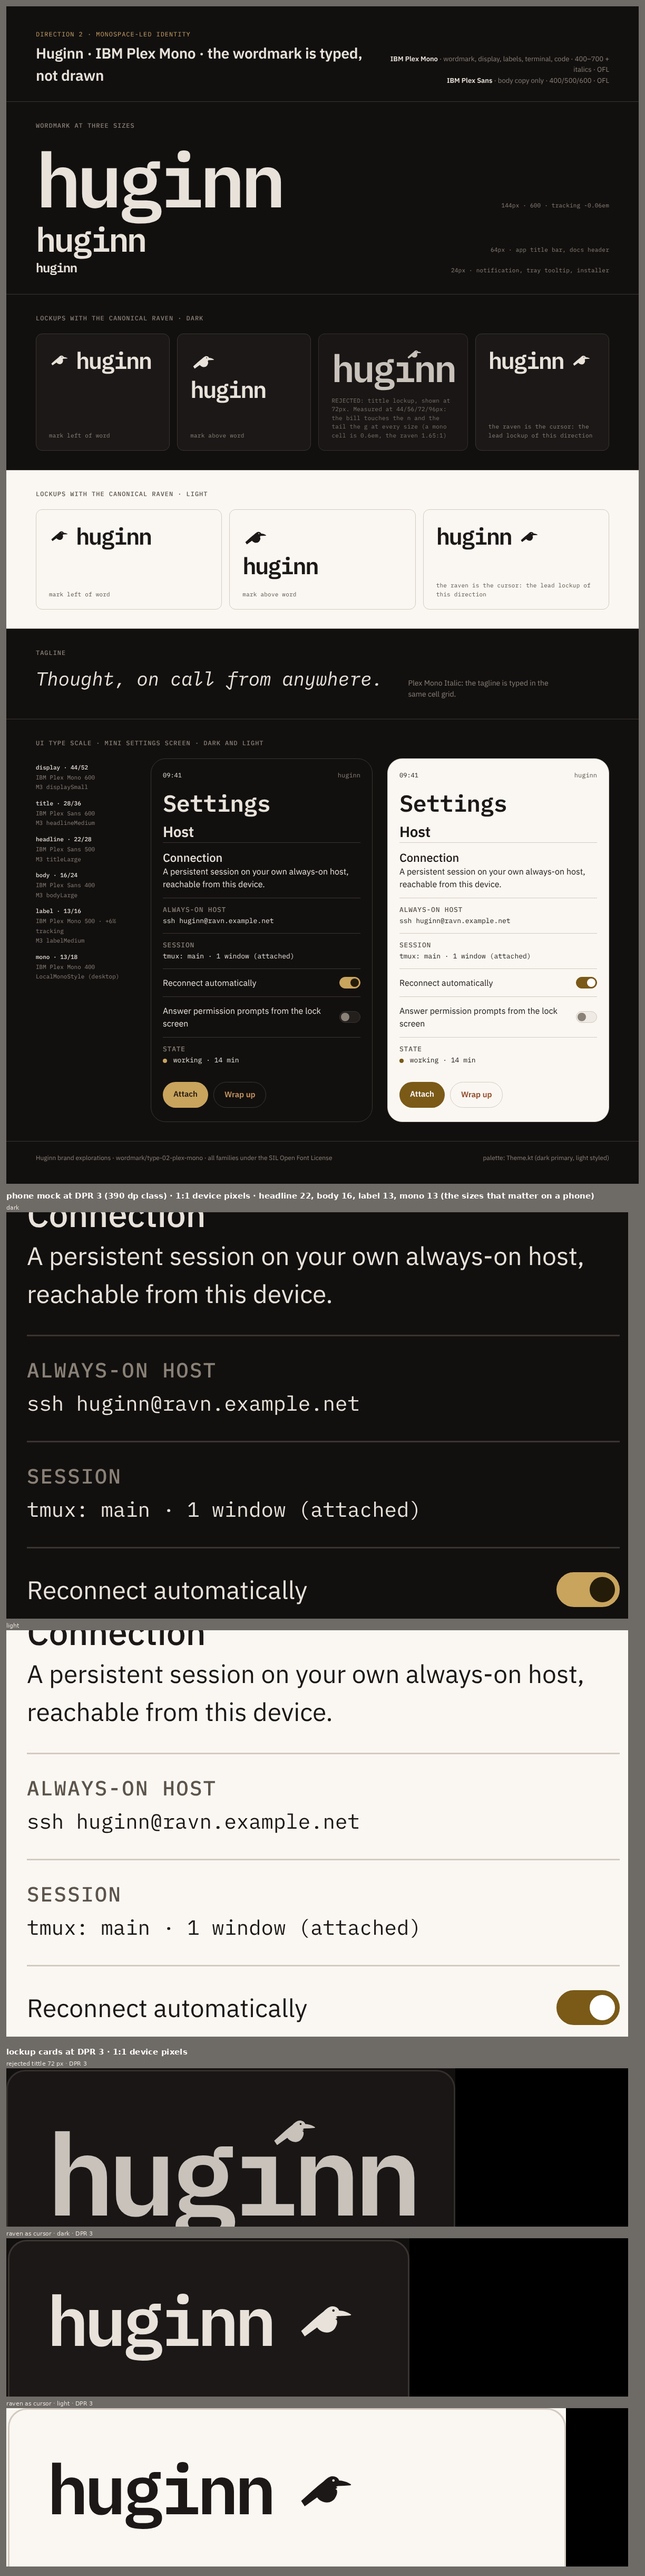
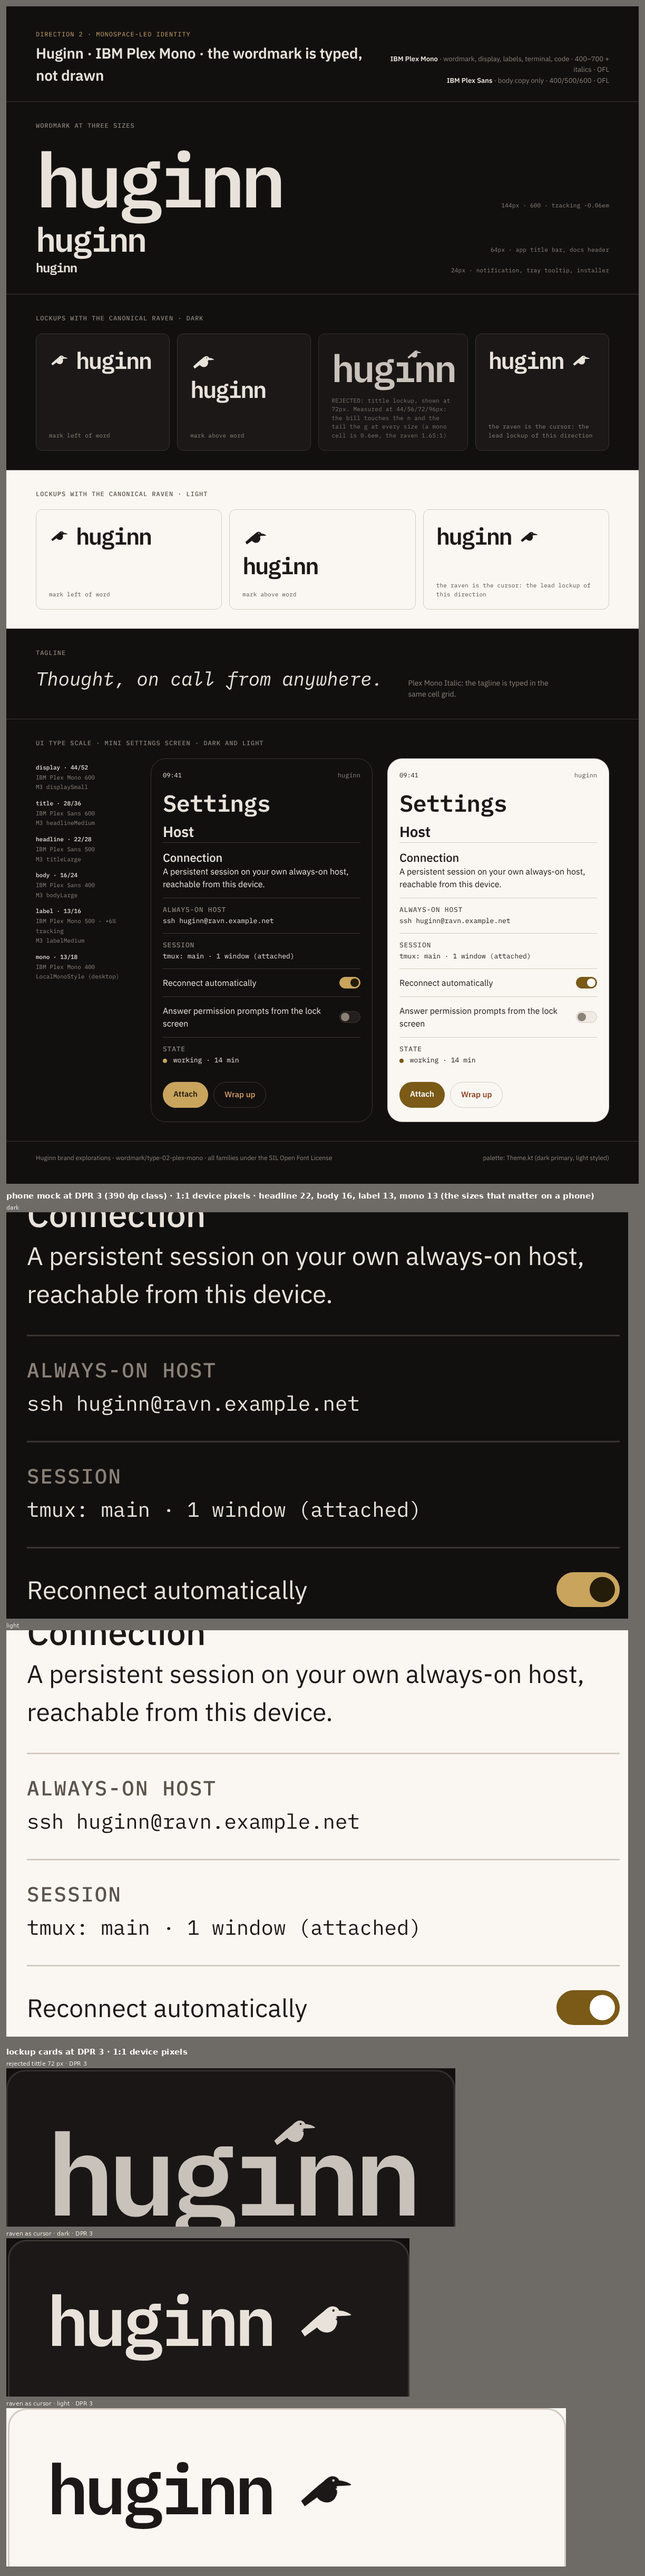
brand explorations: snapshot while the wordmark reviser cleans its scratch renders
Claude-Session: https://claude.ai/code/session_01MsYQ558wxNsKznJYwKmX96

Changed region(s): [[0.6209, 0.7785, 0.9935, 0.9965]]

diff --git a/assets/brand/explorations/wordmark/README.md b/assets/brand/explorations/wordmark/README.md
@@ -1,4 +1,4 @@
-# Wordmark and type system — explorations
+# Wordmark and type system — explorations (revised)
 
 How "Huginn" is set: in terminals (Part A, ASCII wordmarks) and on screens
 (Part B, typographic wordmark + a type system for the apps, docs and
@@ -7,63 +7,105 @@ installer). Every variation is a folder with its files, a `README.md` and a
 
 The recommendation lives in [`type-system.md`](type-system.md).
 
-## Part A — ASCII wordmarks (README, CLI splash, installer)
+## Part A — ASCII wordmarks (README, server-side banners, CLI client, installer)
 
-Surveyed every installed pyfiglet font (571 fonts × `HUGINN`/`huginn`,
-991 renders that fit 60 columns with terminal-safe glyphs, 798 unique)
-on contact sheets, then kept eight and drew two by hand. All pass
-`tools/asciicheck.py`; widths are in each README. Previews show each mark
-on the dark (`#12100F`/`#E8E2DA`) and light (`#FAF7F2`/`#1B1817`) grounds in
-two monospace faces: DejaVu Sans Mono (the stated fallback) and the desktop
-build of JetBrains Mono at line-height 1.0 (how a terminal cell looks).
+Surveyed every installed pyfiglet font (571 fonts × `HUGINN`/`huginn`),
+kept seven stock marks (two of them hand-fixed) and drew the hairline family
+and the one-row glyph by hand. All text files pass `tools/asciicheck.py`.
 
-| Variation | One line | Cols × rows | Preview |
-|---|---|---|---|
-| [`word-01-ansi-shadow`](word-01-ansi-shadow/) | the baseline: today's block capitals with a box-drawing shadow | 49 × 6 | [preview](word-01-ansi-shadow/preview.png) |
-| [`word-02-mono9-caps`](word-02-mono9-caps/) | lighter block capitals, flat, a real diagonal `N` | 42 × 5 | [preview](word-02-mono9-caps/preview.png) |
-| [`word-03-mono9-lower`](word-03-mono9-lower/) | lowercase block `huginn` with a full-height block cursor | 45 × 7 | [preview](word-03-mono9-lower/preview.png) |
-| [`word-04-future`](word-04-future/) | 3-row heavy box-drawing narrow mark for Termux | 16 × 3 | [preview](word-04-future/preview.png) |
-| [`word-05-calvin`](word-05-calvin/) | 3-row double-line (engraved) narrow mark | 16 × 3 | [preview](word-05-calvin/preview.png) |
-| [`word-06-pagga`](word-06-pagga/) | 3-row half-block narrow mark, font-independent | 24 × 3 | [preview](word-06-pagga/preview.png) |
-| [`word-07-cyberlarge`](word-07-cyberlarge/) | slim pure-ASCII capitals, seam-free on GitHub | 44 × 3 | [preview](word-07-cyberlarge/preview.png) |
-| [`word-08-slant-lower`](word-08-slant-lower/) | the italic: slanted lowercase with an upright cursor | 36 × 6 | [preview](word-08-slant-lower/preview.png) |
-| [`word-09-hairline`](word-09-hairline/) | **hand-drawn** thin box-drawing capitals with a true diagonal `N` | 33 × 5 | [preview](word-09-hairline/preview.png) |
-| [`word-10-perch`](word-10-perch/) | **hand-drawn**: the pixel raven stands in for the `I` of the hairline mark | 41 × 5 | [preview](word-10-perch/preview.png) |
+**Charset, because it decides where a mark may live.** `client/huginn.sh`
+and `client/huginn.ps1` are 7-bit only (CONTRIBUTING.md): a mark that goes
+in the client needs a pure-ASCII file. Unicode marks are fine server-side
+(`huginn-status`, the attach banner), in the apps, in the installer console
+and in docs. Every README states its charset; CLI-facing marks ship an
+`ascii.txt` twin.
 
-Two facts that apply to all of them:
+| Variation | One line | Cols × rows | Charset | Preview |
+|---|---|---|---|---|
+| [`word-01-ansi-shadow`](word-01-ansi-shadow/) | the baseline: today's block capitals with a box-drawing shadow | 49 × 6 | Unicode | [preview](word-01-ansi-shadow/preview.png) |
+| [`word-02-mono9-caps`](word-02-mono9-caps/) | lighter block capitals, flat, a real diagonal `N` | 40 × 5 | Unicode (`█▀▄`) | [preview](word-02-mono9-caps/preview.png) |
+| [`word-03-mono9-lower`](word-03-mono9-lower/) | lowercase block `huginn` with the cursor | 43 × 7 | Unicode (`█▀▄`) | [preview](word-03-mono9-lower/preview.png) |
+| [`word-04-future`](word-04-future/) | 3-row heavy box-drawing narrow mark, `N` hand-fixed | 16 × 3 | Unicode heavy box | [preview](word-04-future/preview.png) |
+| [`word-06-pagga`](word-06-pagga/) | 3-row half-block narrow mark, works in every font | 23 × 3 | Unicode (`█▀`) | [preview](word-06-pagga/preview.png) |
+| [`word-07-cyberlarge`](word-07-cyberlarge/) | slim ASCII capitals, hand-fixed, seam-free everywhere | 40 × 3 | **7-bit** | [preview](word-07-cyberlarge/preview.png) |
+| [`word-08-slant-lower`](word-08-slant-lower/) | the italic: slanted lowercase with the cursor | 36 × 6 | Unicode + `ascii.txt` | [preview](word-08-slant-lower/preview.png) |
+| [`word-09-hairline`](word-09-hairline/) | **hand-drawn** thin box-drawing capitals, true diagonal `N`; rounded, square and ASCII files | 33 × 5 | Unicode + `square.txt` + `ascii.txt` | [preview](word-09-hairline/preview.png) |
+| [`word-10-perch`](word-10-perch/) | **hand-drawn**: the raven (rasterised from `raven.svg`) stands in for the `I`; three charsets plus a geometry SVG | 44 × 5 | Unicode + `square.txt` + `ascii.txt` + SVG | [preview](word-10-perch/preview.png) |
+| [`word-11-oneline`](word-11-oneline/) | `(o>`: the one-row glyph for the tmux bar and tab titles, with state variants | 3 (10 with the name) | **7-bit** | [preview](word-11-oneline/preview.png) |
 
-- **The flush-right rule.** `asciicheck.py` requires equal line lengths and
-  no trailing spaces, so every row must end in ink at the same column. Caps
-  ending in `N` do this naturally; lowercase (`h` ascender, `g` descender)
-  and italics cannot, which is why `word-03` and `word-08` carry a
-  full-height block cursor. It became the brand device for lowercase marks.
-- **Where box and block art renders tight.** Terminals draw U+2500–259F
-  glyphs to the cell edge (most desktop terminals draw them natively);
-  GitHub's `<pre>` uses line-height 1.45 and shows horizontal seams in block
-  art and gaps in hairlines. For the README, either use the pure-ASCII marks
-  (`word-07`, `word-08` minus its cursor) or render the chosen wordmark to
-  SVG/PNG. Google Fonts' web subset of JetBrains Mono omits U+2500–25FF
-  altogether; the desktop build has box drawing and block elements in full,
-  43 of 96 geometric shapes (`▶ ▸ ◆ ■ ● ◇` yes; the quadrant triangles `◢ ◣ ◤ ◥` no), no braille and no runes.
+Dropped in this revision: `word-05-calvin` (double-line 3-row mark). It was
+the third narrow mark for one slot, read worst of the three at 12 px, and
+used the double-line glyph set the baseline's shadow is being retired for.
+
+### What the previews show, and how they were made
+
+Each `word-*/preview.png` has the same rows, for every file in the folder:
+
+1. **Specimen**: a FreeType cell-grid render at 24 px DejaVu Sans Mono on the
+   dark and the light ground. Every glyph is drawn into an integer cell
+   (`round(advance) × (ascent+descent)`), the way a terminal lays text out,
+   so there are no fractional-advance seams from a browser.
+2. **At the size it ships**: captures from **xterm.js 5.5** (the terminal
+   engine inside VS Code) with its canvas renderer, which draws box and
+   block characters as geometry the way kitty, VTE and Windows Terminal do:
+   DejaVu Sans Mono 12 px (Termux-class cell 7 × 14) and JetBrains Mono 13 px
+   (desktop cell 7 × 17), at 1:1 and blown up 3× with hard pixels.
+3. **Font-glyph path**: FreeType cells at the same sizes, which is what
+   xterm, Termux and PuTTY draw (the font's own box glyphs: DejaVu's faint
+   block seams and JetBrains Mono's `╲` notches are visible here and nowhere
+   else).
+4. **Where it breaks**: Liberation Mono 13 px cells (hollow box = glyph the
+   font lacks; this is the last font in the desktop fallback chain), and
+   GitHub's `<pre>` as Chromium renders it (Liberation Mono 13.6 px,
+   line-height 1.45, light and dark).
+
+No real GPU terminal was captured (no kitty/xterm binary in this
+environment); xterm.js is a real terminal emulator and is labelled as such.
+
+### Three facts that apply across the set
+
+- **The cursor device.** `asciicheck.py` refuses trailing spaces and ragged
+  blocks, so a lowercase figlet mark cannot ship without something in the
+  last column of every row. The cursor exists to satisfy that linter; it also
+  happens to be the product in one glyph. One spec: one column, full block
+  height, `█` in Unicode files and `|` in ASCII files, after the mark's own
+  letter gap (word-03, word-08).
+- **Font coverage decides the Unicode marks.** Measured with fontTools:
+  DejaVu Sans Mono has all box/block/geometric glyphs (no braille);
+  JetBrains Mono 2.304 has box 128/128, blocks 32/32, geometric 43/96
+  (`▶ ▸ ◆ ■ ● ◇` yes, quadrant triangles no), no braille, no runes; IBM Plex
+  Mono has box 128/128, blocks 32/32, geometric 1/96 (`◊` only), no braille;
+  Liberation Mono has box 40/128 (no `╭ ╮ ╰ ╯ ╲ ╶`, no heavy strokes),
+  blocks 8/32 (`▀ ▄ █` yes), geometric 24/96. Google Fonts' web subset of
+  JetBrains Mono omits U+2500–25FF altogether. Hence the `square.txt` twins
+  (basic light box only) and the rule that terminal art uses `█ ▀ ▄` and the
+  light box set, never `▶`.
+- **GitHub `<pre>` is not a terminal.** Line-height 1.45 opens gaps in every
+  box/block mark. For the README use the ASCII files or the geometry SVG in
+  `word-10-perch`.
 
 Regenerating the stock marks: `pyfiglet.figlet_format(word, font=<font>)`,
-rows right-stripped; `word-06` has `░` replaced by spaces; `word-03`/`word-08`
-append the cursor column. The two hand-drawn marks are the `.txt` files.
+rows right-stripped and the common leading blank column removed; `word-02`
+also drops figlet's extra column before `N`; `word-04`'s two `N`s and all of
+`word-07` are hand-edited; `word-06` has `░` replaced by spaces; `word-03` /
+`word-08` append the cursor column. The hand-drawn marks are the `.txt`
+files; `word-10`'s bird comes from rasterising `raven.svg` onto a 14 × 10
+half-block grid (the pipeline is described in its README).
 
 ## Part B — typographic wordmark and type system (apps, docs, social, installer)
 
 Three directions, each a single self-contained `specimen.html` (Google Fonts
-`<link>`, no other dependencies) rendered to `preview.png` at 1200 px:
-wordmark at 144/64/24 px, three lockups with the canonical `raven.svg`
-inlined (left, above, and the raven as the tittle of the `i`), the tagline,
-and the UI scale (display 44, title 28, headline 22, body 16, label 13, mono
-13) as a settings-screen mock on the dark and the light palette. All
-families are OFL and on Google Fonts, so they bundle in Compose as TTF.
+`<link>`, no other dependencies) rendered to `preview.png`: full page at
+1200 px (wordmark at 144/64/24 px, lockups with the canonical `raven.svg`
+inlined, the tagline, the M3 scale as a settings-screen mock on the dark and
+the light palette), then DPR-3 crops of the phone mock and the lockup cards
+at 1:1 device pixels. All families are OFL and on Google Fonts, so they
+bundle in Compose as TTF.
 
 | Variation | One line | Families | Preview |
 |---|---|---|---|
-| [`type-01-schibsted`](type-01-schibsted/) | neo-grotesk with a Nordic passport; one family for everything | Schibsted Grotesk · JetBrains Mono | [preview](type-01-schibsted/preview.png) |
-| [`type-02-plex-mono`](type-02-plex-mono/) | mono-led: `huginn` typed, the raven as the cursor | IBM Plex Mono · IBM Plex Sans | [preview](type-02-plex-mono/preview.png) |
+| [`type-01-schibsted`](type-01-schibsted/) | neo-grotesk with a Nordic passport; one family for everything; **outlined SVG wordmark and lockup included** | Schibsted Grotesk · JetBrains Mono | [preview](type-01-schibsted/preview.png) |
+| [`type-02-plex-mono`](type-02-plex-mono/) | mono-led: `huginn` typed, the raven as the cursor (tittle lockup measured and rejected) | IBM Plex Mono · IBM Plex Sans | [preview](type-02-plex-mono/preview.png) |
 | [`type-03-instrument`](type-03-instrument/) | display serif with a carved edge; sans UI, mono code | Instrument Serif · Instrument Sans · JetBrains Mono | [preview](type-03-instrument/preview.png) |
 
 Every text colour in the specimens is a Theme.kt token and passes WCAG AA
@@ -73,5 +115,7 @@ Every text colour in the specimens is a Theme.kt token and passes WCAG AA
 ## Verdict
 
 Direction 1 (Schibsted Grotesk + JetBrains Mono) for the product, with
-`word-10-perch` as the terminal signature and `word-04-future` for narrow
-phones; the reasoning is in [`type-system.md`](type-system.md).
+**one** terminal letterform family, the hairline, in three charsets
+(`word-09`/`word-10` rounded, square and ASCII), `word-11-oneline` on the
+one-row surfaces, and `word-06-pagga` only where fewer than 34 columns
+exist; the reasoning is in [`type-system.md`](type-system.md).

diff --git a/assets/brand/explorations/wordmark/type-system.md b/assets/brand/explorations/wordmark/type-system.md
@@ -1,4 +1,4 @@
-# Huginn type system — recommendation
+# Huginn type system — recommendation (revised)
 
 Opinionated, so the brand book can copy it. Sizes are sp (Compose) or px
 (web); "leading" is line height. The phone column is what a 390-dp Android
@@ -35,6 +35,9 @@ Rules that go with the table:
   else; italic is not used in running UI copy.
 - Numerals: tabular (`font-feature-settings: "tnum"`) in the mono and in
   labelSmall timestamps; Schibsted Grotesk has tabular figures.
+- The tittle lockup (raven as the dot of the `i`) is used at 44 px and above
+  only, with the raven at 0.42 em, 0.62 em up and 0.05 em right of the `ı`'s
+  centre; below 44 px use the lockup with the raven left of the word.
 
 ## 2. The mono face
 
@@ -43,17 +46,29 @@ three directions except type-02 (which uses IBM Plex Mono for everything
 and gets the same sizes). Reasons: it is hinted for 11–13 px, has a clear
 `0`/`O`, `1`/`l`/`I`, full box drawing (U+2500–257F, 128/128) and block
 elements (U+2580–259F, 32/32) in the desktop build, so the ASCII wordmarks
-and tmux borders render tight inside the app. Disable ligatures
+and tmux borders render inside the app. Disable ligatures
 (`FontFeature "calt" off`) in the terminal view: a terminal must show what
 was typed.
 
-Coverage limits to design around (measured on JetBrains Mono 2.304):
-geometric shapes 43/96 (`▶ ▸ ◆ ■ ● ◇` present; the quadrant triangles `◢ ◣ ◤ ◥` absent, so draw ravens with half blocks, not triangles), braille 0/256, runes 0/96.
-DejaVu Sans Mono has box drawing and blocks but no braille either (DejaVu
-Sans does). So: block/box art is safe in the bundled mono; braille art and
-runic accents will come from the system's fallback font and will not match
-the mono's cell. Keep runes out of terminal art; the brief wanted them
-subtle anyway.
+Coverage, measured with fontTools on the actual files:
+
+| Font | box U+2500–257F | blocks U+2580–259F | geometric U+25A0–25FF | braille | runes | notes |
+|---|---|---|---|---|---|---|
+| JetBrains Mono 2.304 | 128/128 | 32/32 | 43/96 (`▶ ▸ ◆ ■ ● ◇` yes; `◢ ◣ ◤ ◥` no) | 0 | 0 | draws `╲` with notches at the cell joins |
+| IBM Plex Mono (Google Fonts static) | 128/128 | 32/32 | 1/96 (`◊` only) | 0 | 0 | no `▶ ● ◆` |
+| DejaVu Sans Mono | 128/128 | 32/32 | 96/96 | 0 | 0 | draws `╲` corner to corner |
+| Liberation Mono | 40/128 (no `╭ ╮ ╰ ╯ ╲ ╶`, no heavy) | 8/32 (`▀ ▄ █` yes) | 24/96 | 0 | 0 | the last fallback on Linux desktops |
+
+Design rules that follow: terminal art uses `█ ▀ ▄` and the light box set
+(`│ ─ ┌ ┐ └ ┘ ├ ┤ ┬ ┴`) as its safe core; `╭ ╮ ╰ ╯ ╲` only in files that have
+a square twin; no `▶`, no braille, no runes in terminal art (they would come
+from a system fallback font and not match the cell). The signature's `╲` has
+notches in JetBrains Mono's own glyph; Compose draws text with Skia and will
+show them, so **inside the apps the mark is drawn as geometry** (the
+`word-10-perch/wordmark.svg` approach, or a Compose `Canvas` that paints the
+cell grid), not as text. In external terminals the user's emulator decides:
+kitty, VTE, Windows Terminal, WezTerm and xterm.js draw box glyphs as
+geometry and the diagonal is clean; xterm and Termux use the font's glyph.
 
 ## 3. Bundling in Compose Multiplatform
 
@@ -68,18 +83,20 @@ subtle anyway.
   the whole migration exists to win).
 - Use **static instances, not the variable font**: Compose desktop (Skia)
   does not expose variation axes reliably and Android needs API 26+ for
-  `FontVariation`. Static files come from each family's GitHub repo
-  (`fonts/ttf/` or `static/`). Budget: about 90–110 KB per sans instance,
-  ~110 KB per mono instance; seven files ≈ 0.8 MB. Subset with
-  `pyftsubset --unicodes="U+0000-00FF,U+0100-017F,U+2000-206F,U+20AC,U+2500-259F,U+25A0-25FF"`
+  `FontVariation`. Static files come from each family's GitHub repo or from
+  the Google Fonts CSS API with a non-woff2 user agent (that is how the
+  files in this folder's SVG were obtained). Budget: about 95 KB per sans
+  instance, ~130 KB per mono instance; seven files ≈ 0.75 MB. Subset with
+  `pyftsubset --unicodes="U+0000-00FF,U+0100-017F,U+2000-206F,U+20AC,U+2500-259F"`
   if the APK size matters; keep the box/block ranges in the mono.
 - Android launcher, notification and tray icons never contain type; the
-  wordmark appears as text only inside the apps and as SVG outlines in
-  README/installer, so no font needs to be installed on the user's system.
-- Installer (NSIS `wizard.bmp`) and README hero: render the wordmark to SVG
-  with the glyphs converted to outlines (any browser → "print to SVG", or
-  Inkscape "object to path") so the artwork does not depend on the font
-  being present.
+  wordmark appears as text only inside the apps and as outlines elsewhere.
+- Installer (NSIS `wizard.bmp`), README hero and docs: use
+  `type-01-schibsted/wordmark.svg` / `lockup.svg` (and the `-dark` twins).
+  They were produced with `fontTools` + `uharfbuzz` (shape with kerning,
+  outline each glyph with `SVGPathPen`, place the canonical raven path at cap
+  height); regenerate the same way if the tracking or the family changes.
+  The artwork does not depend on any font being present.
 
 ## 4. Fallbacks
 
@@ -89,28 +106,59 @@ subtle anyway.
 - Web/docs: `font-family: "Schibsted Grotesk", system-ui, -apple-system,
   "Segoe UI", Roboto, sans-serif` and `"JetBrains Mono", ui-monospace,
   "Cascadia Mono", Menlo, "DejaVu Sans Mono", monospace`. Use
-  `font-display: swap`; the wordmark in a README must be SVG outlines, not
-  live text.
-- Terminals: the CLI cannot choose the font. The ASCII marks are designed
-  for DejaVu Sans Mono (Termux default lineage, Linux default) and any font
-  with U+2500–259F; `word-06` and `word-07` are the safety marks for fonts
-  without box drawing. Detect `$COLUMNS` and pick `word-04`/`word-05` below
-  48 columns.
+  `font-display: swap`; the wordmark in a README is the SVG, not live text
+  and not `<pre>` art.
+- Terminals: the CLI cannot choose the font, and the client scripts cannot
+  carry Unicode at all. The ladder, from best to safest:
+  1. `word-10-perch/wordmark.txt` (rounded hairline + bird): server-side
+     banners in terminals whose font has `╭ ╮ ╰ ╯ ╲` (DejaVu Sans Mono,
+     JetBrains Mono, Cascadia, Menlo, Plex Mono).
+  2. `word-10-perch/square.txt`: same drawing with `┌ ┐ └ ┘` and `\`; renders
+     in every font with the basic light box set, Liberation Mono included.
+     Use it when the server cannot know the client's font (it usually
+     cannot), which makes it the practical default for `huginn-status`.
+  3. `word-10-perch/ascii.txt` / `word-09-hairline/ascii.txt`: 7-bit; the
+     only files allowed in `client/huginn.sh` and `huginn.ps1`; also the
+     README fallback where an image is not possible.
+  4. Below 34 columns (`$COLUMNS`): `word-06-pagga` (two universal glyphs),
+     or plain `huginn` in the client.
+  5. One row (tmux `status-left`, tab titles, version lines):
+     `word-11-oneline` `(o>` and its state variants.
 
 ## 5. Verdict
 
 Choose **Direction 1, Schibsted Grotesk + JetBrains Mono**, and pair it with
-`word-10-perch` as the terminal signature (`word-04-future` below 48 columns,
-`word-07-cyberlarge` in plain-text contexts). The product's own stated intent
-is "a terminal that does not look like a terminal emulator", which rules out
-leading with mono (Direction 2's best idea, the raven as cursor, survives as
-a lockup in any direction and should be kept); and Direction 3's serif is
-the most beautiful of the three but fails exactly where this product lives:
-at 13–24 px on a phone, in a tray tooltip, in a notification, where a
-regular-only display serif thins out and its sans companion is anonymous.
-Schibsted Grotesk holds at every size on the table above, gives the
-wordmark a solid 800 that the raven can perch on, is one family for the
+**one** terminal letterform family: the hand-drawn hairline, as
+`word-10-perch` wherever the raven can be shown and `word-09-hairline` where
+it cannot, each in the charset the surface allows (rounded, square, ASCII),
+with `word-11-oneline` on the one-row surfaces and `word-06-pagga` as the
+sole exception for terminals narrower than 34 columns.
+
+Why this and not a heavier terminal mark to match the 800-weight sans: in a
+terminal, weight is not free. Heavy marks are block-element fonts, which
+means seams in browsers and a figlet idiom the brief wants to leave; the
+hairline is the only drawn letterform in the folder, the only one with a
+real raven in it, and the only one that degrades through three charsets
+without changing its drawing. The raven, not the stroke weight, is what ties
+the terminal to the apps; the type's job is to be quiet, well made and the
+same on every platform.
+
+The product's own stated intent is "a terminal that does not look like a
+terminal emulator", which rules out leading with mono (Direction 2's best
+idea, the raven as cursor, survives as a lockup in any direction and should
+be kept; its tittle lockup was measured and does not work). Direction 3's
+serif is the most beautiful of the three but fails exactly where this
+product lives: at 13–24 px on a phone, in a tray tooltip, in a notification,
+where a regular-only display serif thins out and its sans companion is
+anonymous. Schibsted Grotesk holds at every size on the table above, gives
+the wordmark a solid 800 that the raven can perch on, is one family for the
 whole UI (fewer files, no pairing decisions, one italic voice for the
-tagline), and is not yet the default face of every developer tool. The raven
-stays the distinctive element, which is what the brief asked for: the type's
-job is to be quiet, well made and the same on every platform.
+tagline), and now exists as outlined SVG for the README and the installer.
+
+What changed from the first verdict: `word-04-future` was the sub-48-column
+mark and read `HUGI44`; its `N` is fixed, but `word-06` takes the narrow slot
+because it cannot tofu. `word-10` was recommended as the "CLI signature"
+while being Unicode; it is now the *server-side* signature with a 7-bit twin
+for the client. `word-07` is no longer in the verdict: its 3-row ASCII is a
+different drawing from the signature, and the hairline's own ASCII twin keeps
+the family to one.
